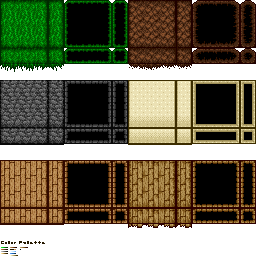
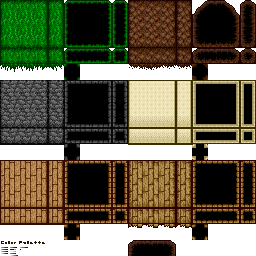
Cross Sections II
Switched the terrain type used for cross section rendering to that of
the terrain one space below what is being cut off (i.e. the piece of
terrain that you would see the "top" of if everything above it was cut
off), rather than the terrain type of the cut off cell.  The exception
is if the one-below cell is transparent (e.g. a window), in which case
the terrain type of the cut off cell is used instead.

Also updated textures for the filling in the corner gaps left in certain
cross section configurations.  Actually rendering the corners correctly
is still in progress!

diff --git a/src/world/World.java b/src/world/World.java
@@ -473,12 +473,11 @@ public class World {
 							GL11.glColor3f(1.0f, 1.0f, 1.0f);
 							GL11.glEnable(GL11.GL_TEXTURE_2D);
 							GL11.glTranslatef(x, y, 0);
-							t.bindVTexture(vTerrainTextures);
 							GL11.glTexParameterf(GL11.GL_TEXTURE_2D, GL11.GL_TEXTURE_MAG_FILTER, GL11.GL_NEAREST);
 					    	
-							
 							if (k < kMax || (k == kMax && t.isTransparent()))
 							{
+								t.bindVTexture(vTerrainTextures);
 						    	//Determine which part of the texture to use based on how many neighbors are air
 						    	int texX = t.getTexCol();
 						    	int texY = t.getTexRow();
@@ -568,93 +567,7 @@ public class World {
 								//if (terrainGrid[i][j][k-1].type != air || (this.hasThing(i, j, k-1) && this.getThingsAt(i, j, k-1).hasFullBlock()))
 								if (terrainGrid[i][j][k-1].type != air)
 								{
-									//Determine which part of the texture to use based on how many neighbors are air
-							    	int texX = t.getTexCol();
-							    	int texY = t.getTexRow();
-							    	
-							    	boolean topEmpty, bottomEmpty, rightEmpty, leftEmpty;
-							    	if (t.isUnblendedVertical())
-							    	{
-										topEmpty = j + 1 >= terrainGrid[0].length
-												|| terrainGrid[i][j+1][k].getTerrainType() != t.getTerrainType()  || terrainGrid[i][j+1][k].isTransparent()
-												|| terrainGrid[i][j+1][k-1].getTerrainType() == air;
-						    			bottomEmpty = j - 1 < 0
-						    					|| terrainGrid[i][j-1][k].getTerrainType() != t.getTerrainType() || terrainGrid[i][j-1][k].isTransparent()
-						    					|| terrainGrid[i][j-1][k-1].getTerrainType() == air;;
-						    			rightEmpty = i + 1 >= terrainGrid.length
-						    					|| terrainGrid[i+1][j][k].getTerrainType() != t.getTerrainType() || terrainGrid[i+1][j][k].isTransparent()
-						    					|| terrainGrid[i+1][j][k-1].getTerrainType() == air;
-						    			leftEmpty = i - 1 < 0
-						    					|| terrainGrid[i-1][j][k].getTerrainType() != t.getTerrainType() | terrainGrid[i-1][j][k].isTransparent()
-						    					|| terrainGrid[i-1][j][k-1].getTerrainType() == air;
-							    	}
-							    	else
-							    	{
-										topEmpty = j + 1 >= terrainGrid[0].length
-												|| terrainGrid[i][j+1][k].getTerrainType() == air || terrainGrid[i][j+1][k].isTransparent()
-												|| terrainGrid[i][j+1][k-1].getTerrainType() == air;
-						    			bottomEmpty = j - 1 < 0
-						    					|| terrainGrid[i][j-1][k].getTerrainType() == air || terrainGrid[i][j-1][k].isTransparent()
-						    					|| terrainGrid[i][j-1][k-1].getTerrainType() == air;
-						    			rightEmpty = i + 1 >= terrainGrid.length
-						    					|| terrainGrid[i+1][j][k].getTerrainType() == air || terrainGrid[i+1][j][k].isTransparent()
-						    					|| terrainGrid[i+1][j][k-1].getTerrainType() == air;
-						    			leftEmpty = i - 1 < 0
-						    					|| terrainGrid[i-1][j][k].getTerrainType() == air || terrainGrid[i-1][j][k].isTransparent()
-						    					|| terrainGrid[i-1][j][k-1].getTerrainType() == air;
-							    	}
-					    		
-						    		if (topEmpty && bottomEmpty)
-						    		{
-						    			texY += 3;
-						    		}
-						    		else if (topEmpty)
-						    		{
-						    			//texY is unchanged, this case is required for the else case and organizational purposes
-						    		}
-						    		else if (bottomEmpty)
-						    		{
-						    			texY += 2;
-						    		}
-						    		else
-						    		{
-						    			texY += 1;
-						    		}
-						    		
-						    		if (leftEmpty && rightEmpty)
-						    		{
-						    			texX += 3;
-						    		}
-						    		else if (leftEmpty)
-						    		{
-						    			//texX is unchanged, this case is required for the else case and organizational purposes
-						    		}
-						    		else if (rightEmpty)
-						    		{
-						    			texX += 2;
-						    		}
-						    		else
-						    		{
-						    			texX += 1;
-						    		}
-							    	
-						    		//shift in x direction to cut-away textures
-						    		texX += 4;
-						    		
-						    		float tConv = ((float)TEXTURE_SIZE)/((float)V_TEXTURE_SHEET_SIZE);
-									
-						    		setLighting(false, lightModGrid[i][j][k]);
-									GL11.glBegin(GL11.GL_QUADS);
-									GL11.glTexCoord2f(texX * tConv, texY*tConv + tConv);
-									GL11.glVertex2f(0, 0);
-									GL11.glTexCoord2f(texX*tConv + tConv, texY*tConv + tConv);
-									GL11.glVertex2f(PIXEL_SIZE*TEXTURE_SIZE, 0);
-									GL11.glTexCoord2f(texX*tConv + tConv, texY * tConv);
-									GL11.glVertex2f(PIXEL_SIZE*TEXTURE_SIZE, PIXEL_SIZE*TEXTURE_SIZE);
-									GL11.glTexCoord2f(texX*tConv, texY * tConv);
-									GL11.glVertex2f(0, PIXEL_SIZE*TEXTURE_SIZE);
-									GL11.glEnd();
-									GL11.glColor3f(1, 1, 1);
+									renderCrossSection(i, j, k, t);
 								}
 							}
 							
@@ -960,6 +873,109 @@ public class World {
 		}
 	}
 
+	private void renderCrossSection(int x, int y, int z, Terrain t)
+	{
+		//Determine which part of the texture to use based on how many neighbors are air
+		Terrain toppedTerrain;
+		int adjustment = 0;	//height adjustment needed for comparing unblended terrains
+		if (terrainGrid[x][y][z-1].isTransparent())
+		{
+			toppedTerrain = t;
+		}
+		else
+		{
+			toppedTerrain = terrainGrid[x][y][z-1];
+			adjustment = -1;
+		}
+		int texX = toppedTerrain.getTexCol();
+		int texY = toppedTerrain.getTexRow();
+		toppedTerrain.bindVTexture(vTerrainTextures);
+    	
+    	boolean topEmpty, bottomEmpty, rightEmpty, leftEmpty;
+    	if (toppedTerrain.isUnblendedVertical())
+    	{
+			topEmpty = y + 1 >= terrainGrid[0].length
+					|| terrainGrid[x][y+1][z+adjustment].getTerrainType() != toppedTerrain.getTerrainType() || terrainGrid[x][y+1][z].isTransparent()
+					|| terrainGrid[x][y+1][z-1].getTerrainType() == air;
+			bottomEmpty = y - 1 < 0
+					|| terrainGrid[x][y-1][z+adjustment].getTerrainType() != toppedTerrain.getTerrainType() || terrainGrid[x][y-1][z].isTransparent()
+					|| terrainGrid[x][y-1][z-1].getTerrainType() == air;
+			rightEmpty = x + 1 >= terrainGrid.length
+					|| terrainGrid[x+1][y][z+adjustment].getTerrainType() != toppedTerrain.getTerrainType() || terrainGrid[x+1][y][z].isTransparent()
+					|| terrainGrid[x+1][y][z-1].getTerrainType() == air;
+			leftEmpty = x - 1 < 0
+					|| terrainGrid[x-1][y][z+adjustment].getTerrainType() != toppedTerrain.getTerrainType() || terrainGrid[x-1][y][z].isTransparent()
+					|| terrainGrid[x-1][y][z-1].getTerrainType() == air;
+    	}
+    	else
+    	{
+			topEmpty = y + 1 >= terrainGrid[0].length
+					|| terrainGrid[x][y+1][z].getTerrainType() == air || terrainGrid[x][y+1][z].isTransparent()
+					|| terrainGrid[x][y+1][z-1].getTerrainType() == air;
+			bottomEmpty = y - 1 < 0
+					|| terrainGrid[x][y-1][z].getTerrainType() == air || terrainGrid[x][y-1][z].isTransparent()
+					|| terrainGrid[x][y-1][z-1].getTerrainType() == air;
+			rightEmpty = x + 1 >= terrainGrid.length
+					|| terrainGrid[x+1][y][z].getTerrainType() == air || terrainGrid[x+1][y][z].isTransparent()
+					|| terrainGrid[x+1][y][z-1].getTerrainType() == air;
+			leftEmpty = x - 1 < 0
+					|| terrainGrid[x-1][y][z].getTerrainType() == air || terrainGrid[x-1][y][z].isTransparent()
+					|| terrainGrid[x-1][y][z-1].getTerrainType() == air;
+    	}
+	
+		if (topEmpty && bottomEmpty)
+		{
+			texY += 3;
+		}
+		else if (topEmpty)
+		{
+			//texY is unchanged, this case is required for the else case and organizational purposes
+		}
+		else if (bottomEmpty)
+		{
+			texY += 2;
+		}
+		else
+		{
+			texY += 1;
+		}
+		
+		if (leftEmpty && rightEmpty)
+		{
+			texX += 3;
+		}
+		else if (leftEmpty)
+		{
+			//texX is unchanged, this case is required for the else case and organizational purposes
+		}
+		else if (rightEmpty)
+		{
+			texX += 2;
+		}
+		else
+		{
+			texX += 1;
+		}
+    	
+		//shift in x direction to cut-away textures
+		texX += 4;
+		
+		float tConv = ((float)TEXTURE_SIZE)/((float)V_TEXTURE_SHEET_SIZE);
+		
+		setLighting(false, lightModGrid[x][y][z]);
+		GL11.glBegin(GL11.GL_QUADS);
+			GL11.glTexCoord2f(texX * tConv, texY*tConv + tConv);
+			GL11.glVertex2f(0, 0);
+			GL11.glTexCoord2f(texX*tConv + tConv, texY*tConv + tConv);
+			GL11.glVertex2f(PIXEL_SIZE*TEXTURE_SIZE, 0);
+			GL11.glTexCoord2f(texX*tConv + tConv, texY * tConv);
+			GL11.glVertex2f(PIXEL_SIZE*TEXTURE_SIZE, PIXEL_SIZE*TEXTURE_SIZE);
+			GL11.glTexCoord2f(texX*tConv, texY * tConv);
+			GL11.glVertex2f(0, PIXEL_SIZE*TEXTURE_SIZE);
+		GL11.glEnd();
+		GL11.glColor3f(1, 1, 1);
+	}
+	
 	/**
 	 * Render textboxes, menus, and such
 	 */

diff --git a/src/main/GameMain.java b/src/main/GameMain.java
@@ -1005,5 +1005,8 @@ public class GameMain {
 		
 		world.addAgents(agents);
 		world.setPlayer(hero);
+		
+		Terrain check = world.getTerrainAt(25, 31, 3);
+		System.out.println("Terrain type, top: " + check.getTerrainType() + ", " + check.getTerrainTop());
 	}
 }
